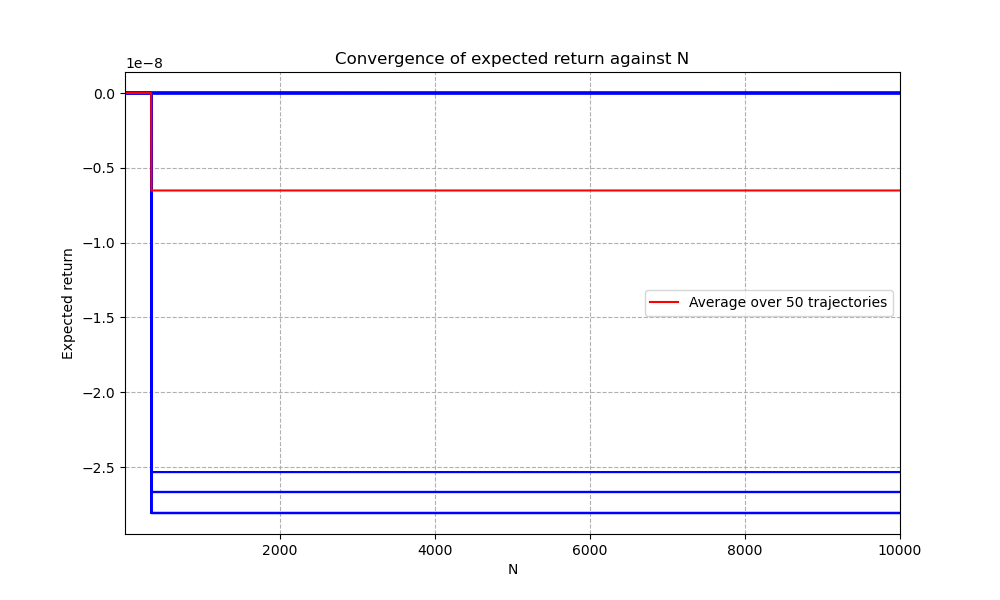
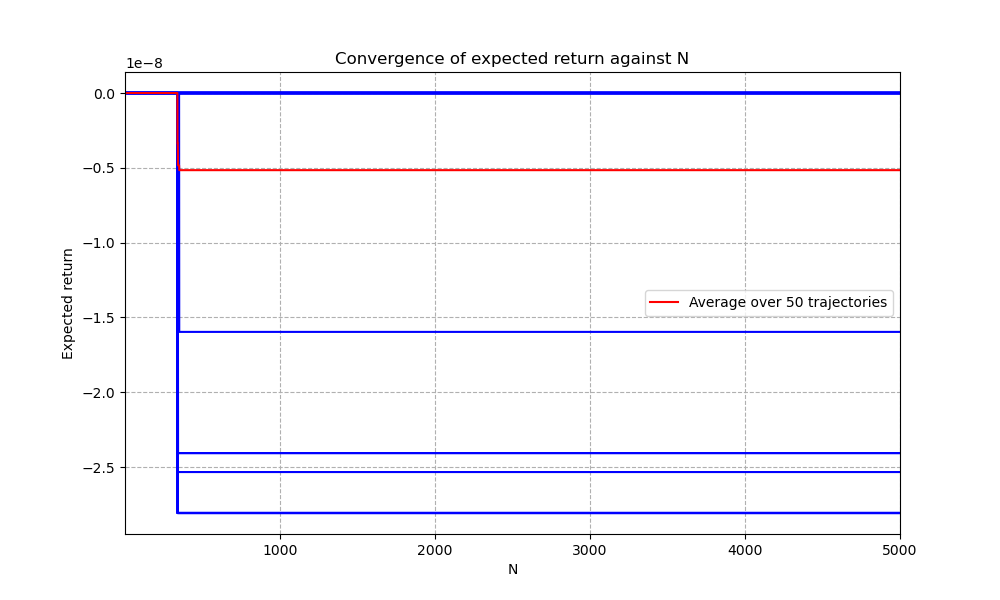
changed horizon 5000 instead of 10000

diff --git a/src/p2/section2.py b/src/p2/section2.py
@@ -55,7 +55,7 @@ if __name__ == "__main__":
     policy_est = PolicyEstimator(domain, agent)
 
     n_initials = 50 # Number of initial states
-    N = 10000 # Horizon
+    N = 5000 # Horizon
 
     all_returns = policy_est.policy_return(N, n_initials) # Get all the estimated expected returns
 
